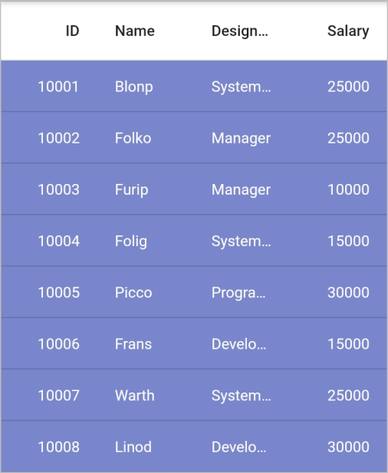
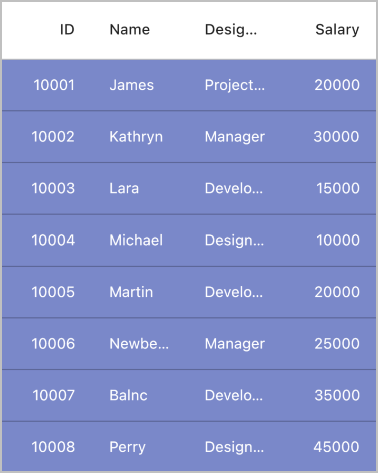
FLUT-5877-[feature][flutter]: Added row background color

diff --git a/Flutter/datagrid/styles.md b/Flutter/datagrid/styles.md
@@ -11,6 +11,15 @@ documentation: ug
 
 The DataGrid supports to change the appearance of the grid by using the [SfDataGridThemeData](https://pub.dev/documentation/syncfusion_flutter_core/latest/theme/SfDataGridThemeData-class.html) in [SfDataGridTheme](https://pub.dev/documentation/syncfusion_flutter_core/latest/theme/SfDataGridTheme-class.html). The DataGrid should be wrapped inside the `SfDataGridTheme`.
 
+The `SfDataGridThemeData` and `SfDataGridTheme` classes are available in [syncfusion_flutter_core](https://pub.dev/packages/syncfusion_flutter_core) package. So, import the below file,
+
+{% tabs %}
+{% highlight Dart %}
+
+import 'package:syncfusion_flutter_core/theme.dart';
+
+{% endhighlight %}
+{% endtabs %}
 
 ## Change the header background color
 
@@ -123,6 +132,57 @@ Widget build(BuildContext context) {
 {% endtabs %}
 
 ![flutter datagrid header hovering](images/styles/flutter-datagrid-header-highlight.gif)
+
+## Change the row background color
+
+The DataGrid supports to change the row background color by using [DataGridRowAdapter.color](https://pub.dev/documentation/syncfusion_flutter_datagrid/latest/datagrid/DataGridRowAdapter/color.html) property.
+
+{% tabs %}
+{% highlight Dart %}
+import 'package:syncfusion_flutter_datagrid/datagrid.dart';
+
+class EmployeeDataSource extends DataGridSource {
+  EmployeeDataSource({required List<Employee> employees}) {
+    dataGridRows = employees
+        .map<DataGridRow>((dataGridRow) => DataGridRow(cells: [
+              DataGridCell<int>(columnName: 'id', value: dataGridRow.id),
+              DataGridCell<String>(columnName: 'name', value: dataGridRow.name),
+              DataGridCell<String>(
+                  columnName: 'designation', value: dataGridRow.designation),
+              DataGridCell<int>(
+                  columnName: 'salary', value: dataGridRow.salary),
+            ]))
+        .toList();
+  }
+
+  List<DataGridRow> dataGridRows = [];
+
+  @override
+  List<DataGridRow> get rows => dataGridRows;
+
+  @override
+  DataGridRowAdapter? buildRow(DataGridRow row) {
+    return DataGridRowAdapter(
+      color: Colors.indigo[300],
+        cells: row.getCells().map<Widget>((dataGridCell) {
+      return Container(
+          alignment: (dataGridCell.columnName == 'id' ||
+                  dataGridCell.columnName == 'salary')
+              ? Alignment.centerRight
+              : Alignment.centerLeft,
+          padding: const EdgeInsets.symmetric(horizontal: 16.0),
+          child: Text(
+            dataGridCell.value.toString(),
+            style: const TextStyle(color: Colors.white),
+            overflow: TextOverflow.ellipsis,
+          ));
+    }).toList());
+  }
+}
+{% endhighlight %}
+{% endtabs %}
+
+![flutter datagrid row background color](images/styles/flutter-datagrid-rows-styling.png)
 
 ## Styling grid lines
 
